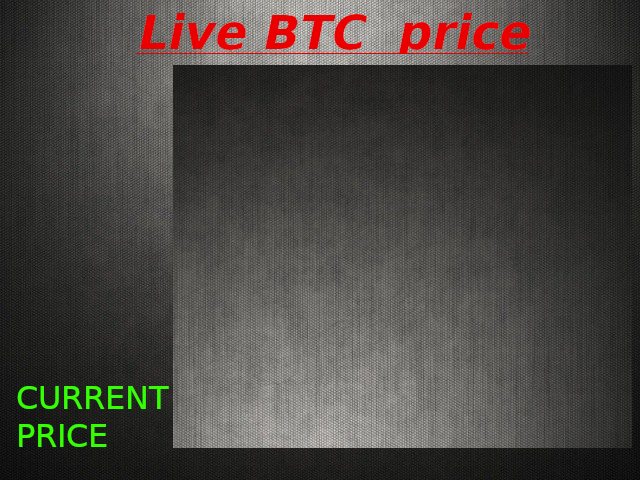
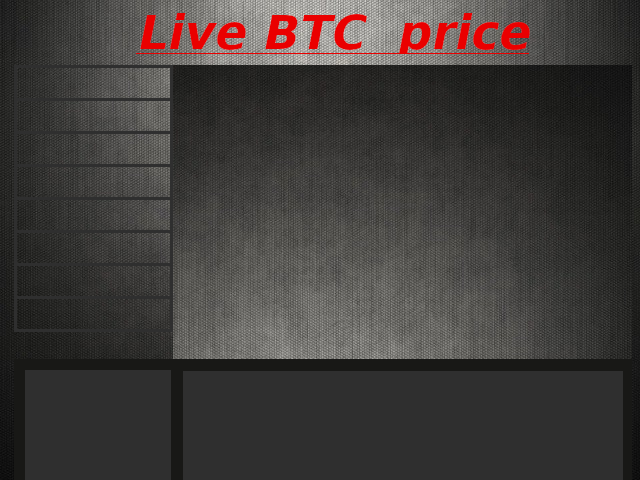
optimization

Changed region(s): [[0.0, 0.75, 1.0, 1.0], [0.125, 0.125, 0.2812, 0.5]]

diff --git a/pricecatch.py b/pricecatch.py
@@ -9,10 +9,13 @@ import pygame, sys
 pygame.init()
 
 white = (255, 255, 255) 
-green = (0, 255, 0) 
 blue = (0, 0, 128) 
 black = (0, 0, 0)
-red = (255, 0, 0)
+red = (200,0,0)
+green = (0,200,0)
+bright_red = (255,0,0)
+bright_green = (0,255,0)
+
 currency = input("which currency would you like? f.e. 'EUR'")
 #last = input("which price would you like? f.e. 'last' or 'buy'")
 
@@ -22,16 +25,18 @@ pygame.display.set_caption("BTCPRICE " + currency + " " + "last")
 pricesvar = 0
 
 font = pygame.font.Font('freesansbold.ttf', 100)
-font1 = pygame.font.Font('freesansbold.ttf', 80)
-font2 = pygame.font.Font('freesansbold.ttf', 60)
-font3 = pygame.font.Font('freesansbold.ttf', 40)
+font1 = pygame.font.SysFont('ubuntu.ttf', 80)
+font2 = pygame.font.SysFont('ubuntu.ttf', 40)
+
 screen.fill(white)
 oldvalue = 0
-
+color = green
 color1 = red
 color2 = red
 color3 = red
 color4 = red
+oldtime = time.time() - 60
+value = 0
 
 
 class Background(pygame.sprite.Sprite):
@@ -40,6 +45,13 @@ class Background(pygame.sprite.Sprite):
         self.image = pygame.image.load(image_file)
         self.rect = self.image.get_rect()
         self.rect.left, self.rect.top = location
+
+
+def values(value, x, y, font, color):
+	text = font.render(value, True, color, None) 
+	textRect = text.get_rect()
+	textRect.center = (x, y)
+	screen.blit(text, textRect)
 
 
 BackGround = Background('gray.png', [0,0])
@@ -52,74 +64,80 @@ while 1:
 			pygame.quit()
 			sys.exit()
 
-	prices = requests.get("https://blockchain.info/ticker")
-	jsontext = prices.text
-	parsed_json= json.loads(jsontext)
-	value = float(parsed_json[currency]["last"])
-	print(value)
+
+	mouse = pygame.mouse.get_pos()
+	#print(mouse)
+	
 
 
 
-	Priceslist.insert(0, oldvalue)
-
-	if value > oldvalue:
-		color = green
-	else:
-		color = red
-
-	#check if value has changed since last check
-	if oldvalue == value:
+	#checks if a minute has passed, if it has run the numbers again
+	if time.time() - oldtime > 60:
+		print("its been a minute")
+		prices = requests.get("https://blockchain.info/ticker")
+		jsontext = prices.text
+		parsed_json= json.loads(jsontext)
+		value = float(parsed_json[currency]["last"])
 		print(value)
-		time.sleep(30)
-	#if value has changed, fill the screen with blue and redraw
+		Priceslist.insert(0, value)
+
+		if value > oldvalue:
+			color = green
+		else:
+			color = red
+		if oldvalue == value:
+			print(value)
+		#if value has changed, fill the screen with blue and redraw
+
+
+			
+		else:
+			screen.fill([0, 0, 0])
+			screen.blit(BackGround.image, BackGround.rect)
+
+			values(str(Priceslist[0]), 640 * 0.65, 480 * 0.90, font, color)
+
+			values(currency + "/BTC", 640 * 0.15, 480 * 0.90, font2, green)
+
+			values(str(Priceslist[1]), 640 * 0.65, 480 * 0.68, font1, color1)
+
+			values(str(Priceslist[2]), 640 * 0.65, 480 * 0.54, font1, color2)
+
+			values(str(Priceslist[3]), 640 * 0.65, 480 * 0.40, font1, color3)
+
+
+
+			
+
+
+		oldtime = time.time()
+		oldvalue = value
+		color4 = color3
+		color3 = color2
+		color2 = color1
+		color1 = color
+
+
+
+	if 168 > mouse[0] > 19 and 98 > mouse[1] > 69:
+		pygame.draw.rect(screen, bright_green, (18, 68, 152, 29))
+		currency = "USD"
 	else:
-		screen.fill([0, 0, 0])
-		screen.blit(BackGround.image, BackGround.rect)
-		pricesvar = value
-
-		text = font.render(str(parsed_json[currency]["last"]), True, color, None) 
-		textRect = text.get_rect()
-		textRect.center = (640 * 0.65, 480 * 0.85)
-
-
-		text1 = font1.render(str(Priceslist[0]), True, color1, None) 
-		text1Rect = text1.get_rect()
-		text1Rect.center = (640 * 0.65, 480 * 0.65)
+		pygame.draw.rect(screen, green, (18, 68, 152, 29))
 
 
 
-		text2 = font2.render(str(Priceslist[1]), True, color2, None) 
-		text2Rect = text2.get_rect()
-		text2Rect.center = (640 * 0.65, 480 * 0.53)
 
 
 
-		text3 = font3.render(str(Priceslist[2]), True, color3, None) 
-		text3Rect = text3.get_rect()
-		text3Rect.center = (640 * 0.65, 480 * 0.44)
 
-		"""buytext = font.render(int(parsed_json["EUR"]["buy"]), True, green, None) 
-		buytextRect = buytext.get_rect()
-		buytextRect.center = (640 * 0.7, 480 * 0.15)
 
-		selltext = font.render(int(parsed_json["EUR"]["sell"]), True, red, None) 
-		selltextRect = selltext.get_rect()
-		selltextRect.center = (640 * 0.7, 480 * 0.85)"""
+	pygame.display.update()
+		
 
-		screen.blit(text, textRect)
-		"""screen.blit(buytext, buytextRect)
-		screen.blit(selltext, selltextRect)"""
-		screen.blit(text1, text1Rect)
-		screen.blit(text2, text2Rect)
-		screen.blit(text3, text3Rect)
-		pygame.display.update()
-		time.sleep(60)
-		#solid blocks
-	oldvalue = value 
-	color4 = color3
-	color3 = color2
-	color2 = color1
-	color1 = color
+
+
+
 
 	
 
